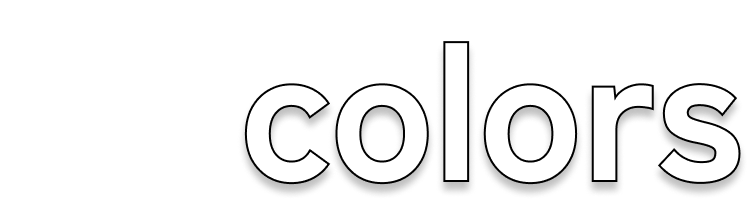
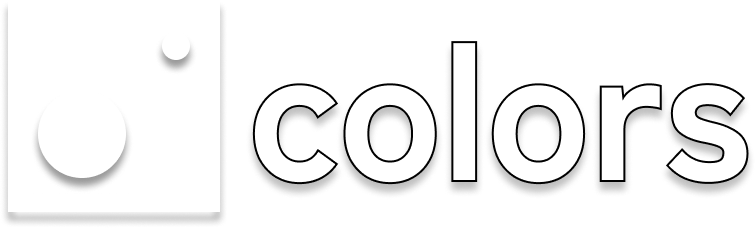
Added Images and new Login

diff --git a/src/view/src/components/Login.jsx b/src/view/src/components/Login.jsx
@@ -31,7 +31,7 @@ const Login = () => {
               render={(renderProps) => (
                 <button
                   type="button"
-                  className="bg-mainColor flex justify-center items-center p-4 rounded-lg cursor-pointer outline-none font-bold"
+                  className="bg-mainColor flex justify-center items-center p-4 rounded-lg cursor-pointer outline-none font-bold font-mono"
                   onClick={renderProps.onClick}
                   disabled={renderProps.disabled}
                 >
